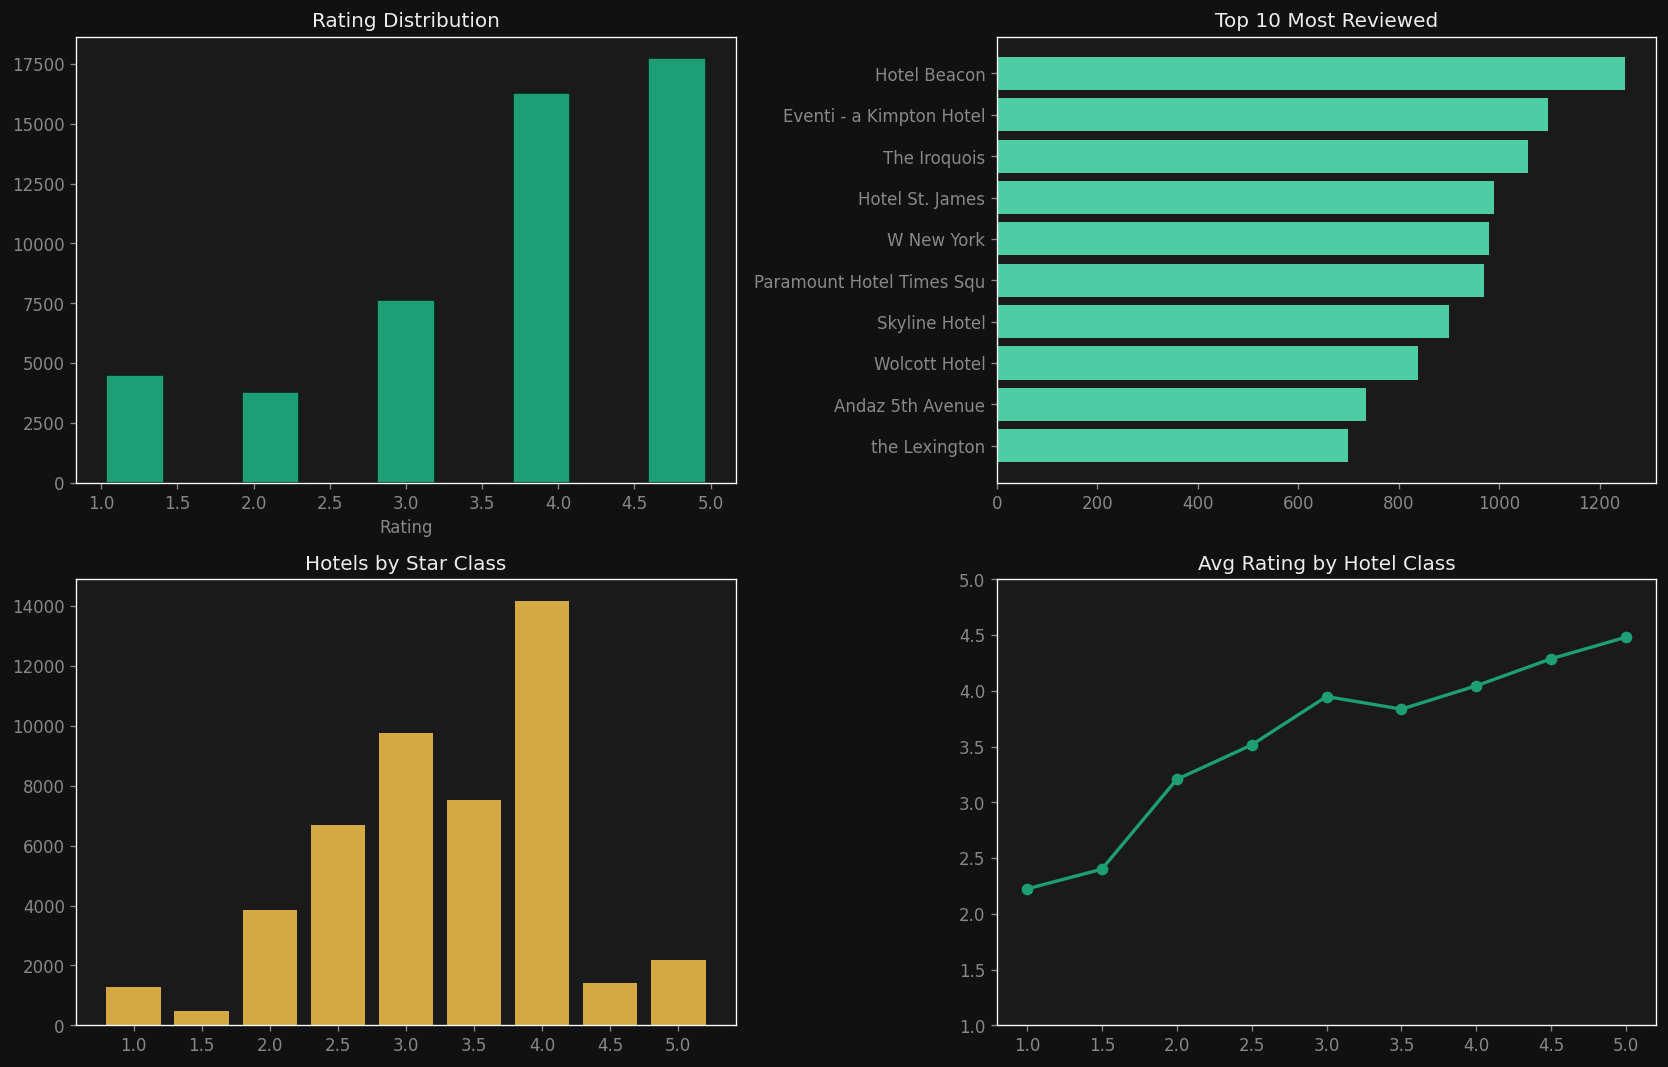
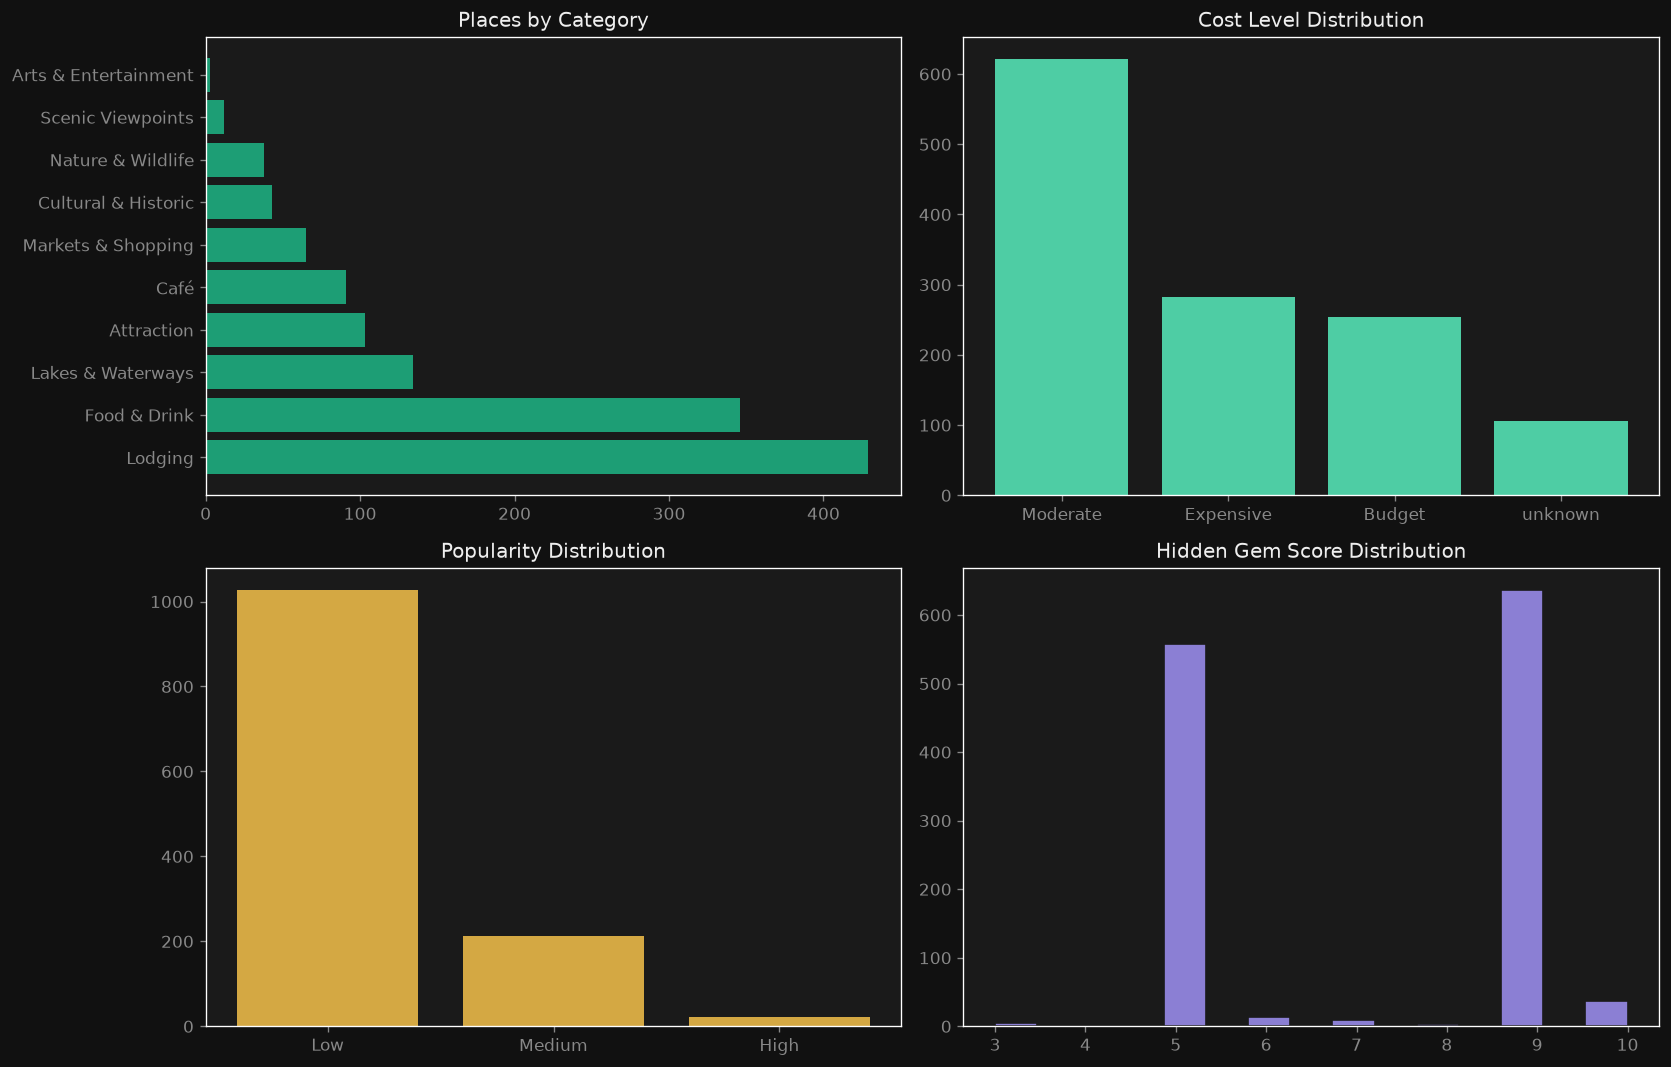
style: make web app layout responsive on mobile viewports

diff --git a/app/page.js b/app/page.js
@@ -918,34 +918,33 @@ export default function Home() {
             <span style={{ fontSize: '18px', fontWeight: 700, letterSpacing: '-0.02em', color: '#111827' }}>Inzira</span>
           </div>
 
-          {/* Navigation Links & Auth Bar */}
-          <div style={{ display: 'flex', alignItems: 'center', gap: '12px' }}>
-            <div style={{ display: 'flex', gap: '8px' }}>
-              {[
-                { id: 'nav-discover', k: 'discover', l: 'Discover', icon: 'discover' },
-                { id: 'nav-map', k: 'map', l: 'Map', icon: 'map' },
-                { id: 'nav-about', k: 'about', l: 'About', icon: 'about' },
-              ].map(({ id, k, l, icon }) => (
-                <button key={k} id={id} onClick={() => { setActiveNav(k); if (k !== 'discover') { setSelPlace(null); } }} style={{
-                  padding: '6px 14px',
-                  borderRadius: '9999px',
-                  fontSize: '13px',
-                  fontWeight: 600,
-                  background: activeNav === k ? '#E1F5EE' : 'transparent',
-                  color: activeNav === k ? '#0F6E56' : '#4b5563',
-                  display: 'flex',
-                  alignItems: 'center',
-                  gap: '6px',
-                  cursor: 'pointer',
-                }}>
-                  <SvgIcon name={icon} size={14} color={activeNav === k ? '#0F6E56' : '#4b5563'} />
-                  {l}
-                </button>
-              ))}
-            </div>
+          {/* Navigation Links (Tabs) */}
+          <div className="header-tabs" style={{ display: 'flex', gap: '8px' }}>
+            {[
+              { id: 'nav-discover', k: 'discover', l: 'Discover', icon: 'discover' },
+              { id: 'nav-map', k: 'map', l: 'Map', icon: 'map' },
+              { id: 'nav-about', k: 'about', l: 'About', icon: 'about' },
+            ].map(({ id, k, l, icon }) => (
+              <button key={k} id={id} onClick={() => { setActiveNav(k); if (k !== 'discover') { setSelPlace(null); } }} style={{
+                padding: '6px 14px',
+                borderRadius: '9999px',
+                fontSize: '13px',
+                fontWeight: 600,
+                background: activeNav === k ? '#E1F5EE' : 'transparent',
+                color: activeNav === k ? '#0F6E56' : '#4b5563',
+                display: 'flex',
+                alignItems: 'center',
+                gap: '6px',
+                cursor: 'pointer',
+              }}>
+                <SvgIcon name={icon} size={14} color={activeNav === k ? '#0F6E56' : '#4b5563'} />
+                {l}
+              </button>
+            ))}
+          </div>
 
-            <div style={{ width: '1px', height: '24px', background: '#e5e7eb', margin: '0 4px' }} />
-
+          {/* Auth/Saved Places Bar */}
+          <div className="header-auth-bar" style={{ display: 'flex', alignItems: 'center', gap: '12px' }}>
             {/* Saved Places Counter Button */}
             <button onClick={() => setShowSavedModal(true)} style={{
               display: 'flex',
@@ -1013,7 +1012,7 @@ export default function Home() {
       {/* ──────────────────────────────────────────────────
          Main Application Shell Layout
          ────────────────────────────────────────────────── */}
-      <main style={{ maxWidth: '1100px', margin: '0 auto', padding: '40px 24px 120px', minHeight: 'calc(100vh - 420px)' }}>
+      <main className="main-shell" style={{ maxWidth: '1100px', margin: '0 auto', padding: '40px 24px 120px', minHeight: 'calc(100vh - 420px)' }}>
         
         {/* ═══ 1. DISCOVER TAB ══════════════════════════ */}
         {activeNav === 'discover' && (
@@ -1039,7 +1038,7 @@ export default function Home() {
                 </button>
 
                 {/* Detail Columns */}
-                <div style={{ display: 'grid', gridTemplateColumns: '1.2fr 0.8fr', gap: '32px', alignItems: 'start' }}>
+                <div className="place-detail-grid" style={{ display: 'grid', gridTemplateColumns: '1.2fr 0.8fr', gap: '32px', alignItems: 'start' }}>
                   
                   {/* Left Column: Place Details & Feedback */}
                   <div style={{ display: 'flex', flexDirection: 'column', gap: '24px' }}>
@@ -1422,7 +1421,7 @@ export default function Home() {
                 
                 {/* 1. Hero Section */}
                 <div style={{ textAlign: 'center', marginBottom: '32px' }}>
-                  <h1 style={{ fontSize: '42px', fontWeight: 500, letterSpacing: '-0.03em', color: '#111827', marginBottom: '10px' }}>
+                  <h1 className="hero-title" style={{ fontSize: '42px', fontWeight: 500, letterSpacing: '-0.03em', color: '#111827', marginBottom: '10px' }}>
                     Find your next spot
                   </h1>
                   <p style={{ fontSize: '16px', color: '#6b7280', fontWeight: 400, maxWidth: '560px', margin: '0 auto', lineHeight: 1.5 }}>
@@ -1977,7 +1976,7 @@ export default function Home() {
             zIndex: 1000,
             padding: '24px',
           }} onClick={() => setShowAuthModal(false)}>
-            <div style={{
+            <div className="auth-modal-content" style={{
               background: '#ffffff',
               borderRadius: '16px',
               width: '100%',
@@ -2190,7 +2189,7 @@ export default function Home() {
             zIndex: 1050,
             padding: '20px',
           }} onClick={() => setShowProfileModal(false)}>
-            <div style={{
+            <div className="profile-modal-content" style={{
               background: '#ffffff',
               borderRadius: '24px',
               width: '100%',
@@ -2361,7 +2360,7 @@ export default function Home() {
             zIndex: 1000,
             padding: '24px',
           }} onClick={() => setShowSavedModal(false)}>
-            <div style={{
+            <div className="saved-modal-content" style={{
               background: '#ffffff',
               borderRadius: '16px',
               width: '100%',

diff --git a/app/globals.css b/app/globals.css
@@ -70,10 +70,13 @@ html, body {
   }
   .header-tabs {
     order: 3;
-    width: 100%;
+    width: 100% !important;
     overflow-x: auto;
     justify-content: flex-start !important;
     padding-bottom: 4px;
+  }
+  .header-auth-bar {
+    order: 2;
   }
   .main-shell {
     padding: 24px 16px 80px !important;
@@ -88,5 +91,13 @@ html, body {
   .footer-grid {
     grid-template-columns: 1fr !important;
     gap: 32px !important;
+  }
+}
+
+@media (max-width: 480px) {
+  .auth-modal-content, .profile-modal-content, .saved-modal-content {
+    padding: 20px 16px !important;
+    max-height: 95vh !important;
+    overflow-y: auto !important;
   }
 }
